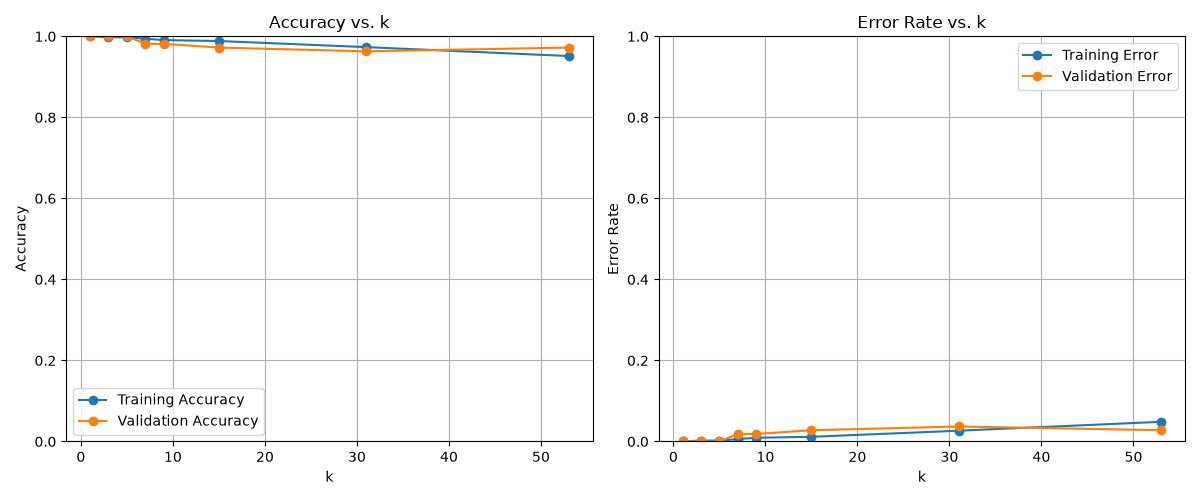
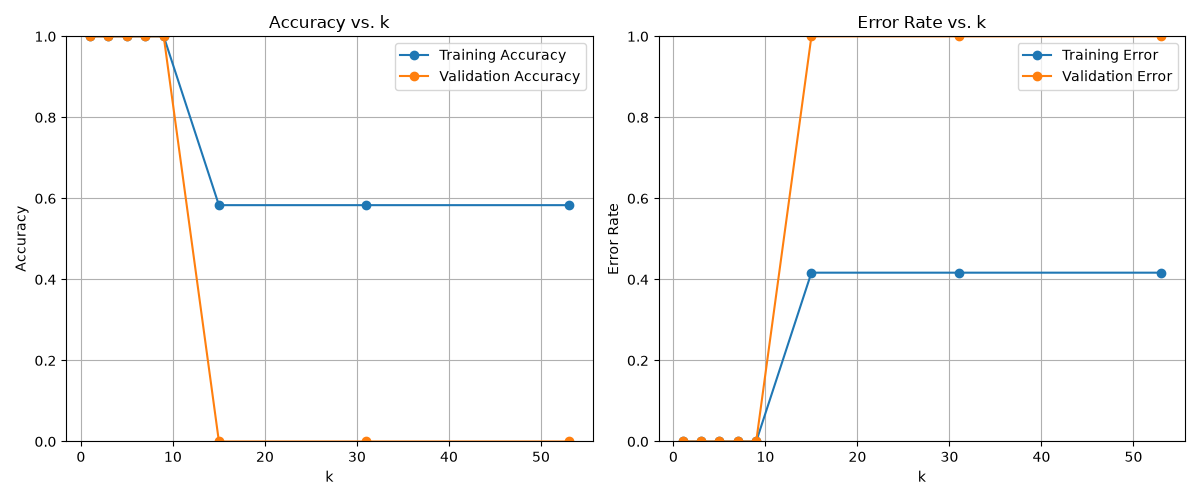
Task 3 now passes gradescope too

diff --git a/Checkpoint 3/Task 3/tp3_team_3_25.py b/Checkpoint 3/Task 3/tp3_team_3_25.py
@@ -3,7 +3,14 @@ Course Number: ENGR 13300
 Semester: Fall 2026
 
 Description:
-    
+    Loads the extracted image feature dataset, scales and optionally
+    shuffles it, and splits it into training, validation, and test sets.
+    Evaluates a K-nearest neighbors classifier across several k values,
+    plots the training and validation accuracy and error rates, and
+    selects the best k by validation accuracy. Trains a logistic
+    regression model with gradient descent, plots the training and
+    validation loss, and compares the accuracy of both models on the
+    validation and test sets.
 
 Assignment Information:
     Assignment:     9.1.2 TP3 Team 3
@@ -131,7 +138,7 @@ def plot_knn_performance(metrics, k_values):
     plt.savefig('train_val.png')
     plt.close()
 
-def select_best_k(metrics, k_values):
+def select_best_k(k_values, metrics):
     # Select the best k based on validation accuracy
     val_acc = metrics["acc"]["val_acc"]
     best_k_index = np.argmax(val_acc)
@@ -302,8 +309,6 @@ def main():
     shuffle = input("Shuffle the dataset? (yes/no): ").strip().lower() == "yes"
     seed = int(input("Enter a seed for loading the dataset: "))
 
-    np.random.seed(seed)  # reproducible weight initialization
-
     # Use the same column names you used in your 9.1.1 main (see the CSV header)
     feature_cols = ["hue_mean", "hue_std", "saturation_mean", "saturation_std",
                     "value_mean", "value_std", "number_lines", "has_circle",
@@ -311,13 +316,14 @@ def main():
     label_col = "ClassId"
 
     X, y = load_dataset(file_path, feature_cols, label_col, shuffle, seed)
+    np.random.seed(seed)  # reproducible weight initialization
     (X_train, X_val, X_test,
         y_train, y_val, y_test) = train_val_test_split(X, y, 0.8, 0.1, 0.1)
 
     print("\nData loaded and split into\n")
-    print(f"Training set:\nsize: {len(y_train)}")
-    print(f"Validation set:\nsize: {len(y_val)}")
-    print(f"Test set:\nsize: {len(y_test)}")
+    print(f"Training set:\n  size: {len(y_train)}")
+    print(f"Validation set:\n  size: {len(y_val)}")
+    print(f"Test set:\n  size: {len(y_test)}")
 
     # ----- KNN -----
     k_values = [1, 3, 5, 7, 9, 15, 31, 53]
@@ -329,7 +335,7 @@ def main():
         print(f"k = {k}: train accuracy = {knn_metrics['acc']['train_acc'][i]:.4f}, "
               f"validation accuracy = {knn_metrics['acc']['val_acc'][i]:.4f}")
 
-    best_k = select_best_k(knn_metrics, k_values)
+    best_k = select_best_k(k_values, knn_metrics)
     print(f"\nBased on the plots, the best k appears to be: {best_k}")
 
     knn_test_acc, knn_test_err = evaluate_knn_test_set(X_train, y_train, X_test, y_test, best_k)
